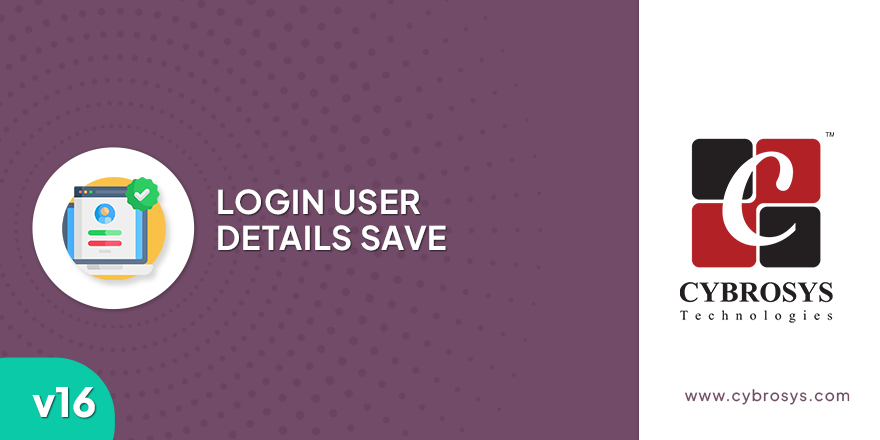
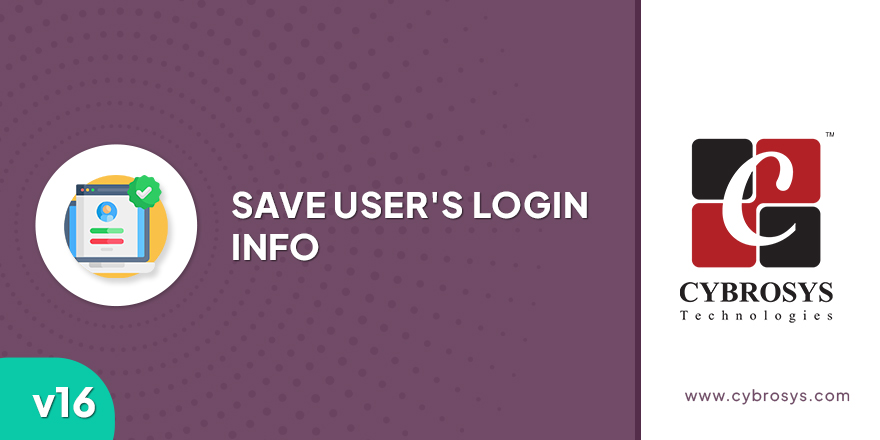
[FIX] Bug Fixed 'login_user_details_save'

Changed region(s): [[0.0307, 0.325, 0.675, 0.6795], [0.7057, 0.0, 0.7364, 1.0], [0.092, 0.6795, 0.1841, 0.7091]]

diff --git a/login_user_details_save/static/description/index.html b/login_user_details_save/static/description/index.html
@@ -1,19 +1,22 @@
 <div style="background-color: #714B67; min-height: 600px; width: 100%; padding: 15px; position: relative;">
     <!-- TITLE BAR -->
-    <div
-        style="border-bottom: 1px solid #875A7B; padding: 15px; display: flex; justify-content: space-between; align-items: center;">
-        <img src="assets/misc/cybrosys-logo.png" width="42" height="42" style="width: 42px; height: 42px;" />
+    <div class="d-flex align-items-center justify-content-between"
+         style="border-bottom: 1px solid #875A7B; padding: 15px; display: flex; justify-content: space-between; align-items: center;">
+        <img src="assets/misc/cybrosys-logo.png" width="42" height="42" style="width: 42px; height: 42px;"/>
         <div>
-            <div style="color: #7C7BAD; font-size: 14px; font-family: 'Montserrat', sans-serif; font-weight: bold; background-color: white; display: inline-block; padding: 3px 10px; border-radius: 50px;"
-                class="mr-2">
+            <div
+                    style="color: #7C7BAD; font-size: 14px; font-family: 'Montserrat', sans-serif; font-weight: bold; background-color: white; display: inline-block; padding: 3px 10px; border-radius: 50px;"
+                    class="mr-2">
                 <i class="fa fa-check mr-1"></i>Community
             </div>
-            <div style="color: #875A7B; font-size: 14px; font-family: 'Montserrat', sans-serif; font-weight: bold; background-color: white; display: inline-block; padding: 3px 10px; border-radius: 50px;"
-                class="mr-2">
+             <div
+                    style="color: #7C7BAD; font-size: 14px; font-family: 'Montserrat', sans-serif; font-weight: bold; background-color: white; display: inline-block; padding: 3px 10px; border-radius: 50px;"
+                    class="mr-2">
                 <i class="fa fa-check mr-1"></i>Enterprise
             </div>
-            <div style="color: #017E84; font-size: 14px; font-family: 'Montserrat', sans-serif; font-weight: bold; background-color: white; display: inline-block; padding: 3px 10px; border-radius: 50px;"
-                class="mr-2">
+            <div
+                    style="color: #017E84; font-size: 14px; font-family: 'Montserrat', sans-serif; font-weight: bold; background-color: white; display: inline-block; padding: 3px 10px; border-radius: 50px;"
+                    class="mr-2">
                 <i class="fa fa-check mr-1"></i>Odoo.sh
             </div>
         </div>
@@ -26,7 +29,7 @@
         displayed in login page, and we can click on it, and it automatically
         fills our username.</p>
     <!-- END OF APP HERO -->
-    <img src="assets/screenshots/hero.gif"
+    <img src="assets/screenshots/hero1.gif"
         style="width: 75%; height: auto; position: absolute; margin-left: auto; margin-right: auto; top: 45%; left: 12%; right: auto;" />
 
 </div>
@@ -34,8 +37,8 @@
 <!-- NAVIGATION SECTION -->
 <div class="d-flex align-items-center" style="border-bottom: 2px solid #714B67; padding: 15px 0px; margin-top: 300px;">
     <div class="d-flex justify-content-center align-items-center mr-2"
-        style="background-color: #F5F5F5; border-radius: 0px; width: 40px; height: 40px;">
-        <img src="assets/misc/compass.png" />
+         style="background-color: #F5F5F5; border-radius: 0px; width: 40px; height: 40px;">
+        <img src="assets/misc/compass.png"/>
     </div>
     <h2 class="mt-2" style="font-family: 'Montserrat', sans-serif; font-size: 24px; font-weight: bold;">Explore This
         Module</h2>
@@ -44,45 +47,42 @@
     <div class="col-sm-12 col-md-6 my-3">
         <a href="#overview">
             <div class="d-flex justify-content-between align-items-center"
-                style="background-color: #f5f5f5; padding: 30px; width: 100%;">
+                 style="background-color: #f5f5f5; padding: 30px; width: 100%;">
                 <div>
                     <span style="color: #714B67; font-size: 24px; font-weight: 500; display: block;">Overview</span>
-                    <span
-                        style="color: #714B67; font-size: 16px; font-weight: 400; color:#282F33;  display: block;">Learn
-                        more about this
-                        module</span>
+                    <span style="color: #714B67; font-size: 16px; font-weight: 400; color:#282F33;  display: block;">Learn
+            more about this
+            module</span>
                 </div>
-                <img src="assets/misc/right-arrow.png" width="36" height="36" />
+                <img src="assets/misc/right-arrow.png" width="36" height="36"/>
             </div>
         </a>
     </div>
     <div class="col-sm-12 col-md-6 my-3">
         <a href="#features">
             <div class="d-flex justify-content-between align-items-center"
-                style="background-color: #f5f5f5; padding: 30px; width: 100%;">
+                 style="background-color: #f5f5f5; padding: 30px; width: 100%;">
                 <div>
                     <span style="color: #714B67; font-size: 24px; font-weight: 500; display: block;">Features</span>
-                    <span
-                        style="color: #714B67; font-size: 16px; font-weight: 400; color:#282F33;  display: block;">View
-                        features of this
-                        module</span>
+                    <span style="color: #714B67; font-size: 16px; font-weight: 400; color:#282F33;  display: block;">View
+            features of this
+            module</span>
                 </div>
-                <img src="assets/misc/right-arrow.png" width="36" height="36" />
+                <img src="assets/misc/right-arrow.png" width="36" height="36"/>
             </div>
         </a>
     </div>
     <div class="col-sm-12 col-md-6 my-3">
         <a href="#screenshots">
             <div class="d-flex justify-content-between align-items-center"
-                style="background-color: #f5f5f5; padding: 30px; width: 100%;">
+                 style="background-color: #f5f5f5; padding: 30px; width: 100%;">
                 <div>
                     <span style="color: #714B67; font-size: 24px; font-weight: 500; display: block;">Screenshots</span>
-                    <span
-                        style="color: #714B67; font-size: 16px; font-weight: 400; color:#282F33;  display: block;">View
-                        screenshots for this
-                        module</span>
+                    <span style="color: #714B67; font-size: 16px; font-weight: 400; color:#282F33;  display: block;">View
+            screenshots for this
+            module</span>
                 </div>
-                <img src="assets/misc/right-arrow.png" width="36" height="36" />
+                <img src="assets/misc/right-arrow.png" width="36" height="36"/>
             </div>
         </a>
     </div>
@@ -92,23 +92,23 @@
 <!-- OVERVIEW SECTION -->
 <div class="d-flex align-items-center" style="border-bottom: 2px solid #714B67; padding: 15px 0px;" id="overview">
     <div class="d-flex justify-content-center align-items-center mr-2"
-        style="background-color: #F5F5F5; border-radius: 0px; width: 40px; height: 40px;">
-        <img src="assets/misc/pie-chart.png" />
+         style="background-color: #F5F5F5; border-radius: 0px; width: 40px; height: 40px;">
+        <img src="assets/misc/pie-chart.png"/>
     </div>
     <h2 class="mt-2" style="font-family: 'Montserrat', sans-serif; font-size: 24px; font-weight: bold;">Overview
     </h2>
 </div>
 <div class="row" style="font-family: 'Montserrat', sans-serif; font-weight: 400; font-size: 14px; line-height: 200%;">
-    <div class="col-sm-12 py-4">This app allows us to save our login info , our name will be
-        displayed in login page, we can click on it, and it automatically
-        fills our username</div>
+    <div class="col-sm-12 py-4">
+        This app allows you to create and manage courier requests for the courier management.
+    </div>
 </div>
 <!-- END OF OVERVIEW SECTION -->
 
 <!-- FEATURES SECTION -->
 <div class="d-flex align-items-center" style="border-bottom: 2px solid #714B67; padding: 15px 0px;" id="features">
     <div class="d-flex justify-content-center align-items-center mr-2"
-        style="background-color: #F5F5F5; border-radius: 0px; width: 40px; height: 40px;">
+         style="background-color: #F5F5F5; border-radius: 0px; width: 40px; height: 40px;">
         <img src="assets/misc/features.png"/>
     </div>
     <h2 class="mt-2" style="font-family: 'Montserrat', sans-serif; font-size: 24px; font-weight: bold;">Features
@@ -116,8 +116,8 @@
 </div>
 <div class="row" style="font-family: 'Montserrat', sans-serif; font-weight: 400; font-size: 14px; line-height: 200%;">
     <div class="col-sm-12 col-md-6">
-        <div class="d-flex align-items-start" style="margin-top: 40px; margin-bottom: 40px">
-            <img src="assets/misc/check-box.png" class="mr-2" />
+        <div class="d-flex align-items-center" style="margin-top: 30px; margin-bottom: 30px">
+            <img src="assets/misc/check-box.png" class="mr-2"/>
             <div>
                 <span
                     style="display: block; font-family: 'Montserrat', sans-serif; font-size: 18px; font-weight: bold;">Prevents accidental logout</span>
@@ -125,8 +125,8 @@
             </div>
         </div>
 
-        <div class="d-flex align-items-start" style="margin-top: 30px; margin-bottom: 30px">
-            <img src="assets/misc/check-box.png" class="mr-2" />
+        <div class="d-flex align-items-center" style="margin-top: 30px; margin-bottom: 30px">
+            <img src="assets/misc/check-box.png" class="mr-2"/>
             <div>
                 <span
                     style="display: block; font-family: 'Montserrat', sans-serif; font-size: 18px; font-weight: bold;">We can save our login details</span>
@@ -136,8 +136,8 @@
 
     </div>
     <div class="col-sm-12 col-md-6">
-        <div class="d-flex align-items-start" style="margin-top: 30px; margin-bottom: 30px">
-            <img src="assets/misc/check-box.png" class="mr-2" />
+       <div class="d-flex align-items-center" style="margin-top: 30px; margin-bottom: 30px">
+            <img src="assets/misc/check-box.png" class="mr-2"/>
             <div>
                 <span
                     style="display: block; font-family: 'Montserrat', sans-serif; font-size: 18px; font-weight: bold;">We can remove this saved  login details</span>
@@ -151,8 +151,8 @@
 <!-- SCREENSHOTS SECTION -->
 <div class="d-flex align-items-center" style="border-bottom: 2px solid #714B67; padding: 15px 0px;" id="screenshots">
     <div class="d-flex justify-content-center align-items-center mr-2"
-        style="background-color: #F5F5F5; border-radius: 0px; width: 40px; height: 40px;">
-        <img src="assets/misc/pictures.png" />
+         style="background-color: #F5F5F5; border-radius: 0px; width: 40px; height: 40px;">
+        <img src="assets/misc/pictures.png"/>
     </div>
     <h2 class="mt-2" style="font-family: 'Montserrat', sans-serif; font-size: 24px; font-weight: bold;">Screenshots
     </h2>
@@ -163,34 +163,19 @@
         <div style="display: block; margin: 30px auto;">
             <h3 style="font-family: 'Montserrat', sans-serif; font-size: 18px; font-weight: bold;">Prevents accidental logout</h3>
             <p style="font-weight: 400; font-family: 'Montserrat', sans-serif; font-size: 14px;">In this app the logout button doesn't log you out instantly, instead it asks for logout confirmation</p>
-            <img src="assets/screenshots/screenshot7.png" class="img-thumbnail">
+            <img src="assets/screenshots/login1.png" class="img-thumbnail">
         </div>
-        <div style="display: block; margin: 30px auto;">
-            <h3 style="font-family: 'Montserrat', sans-serif; font-size: 18px; font-weight: bold;"></h3>
-            <p style="font-weight: 400; font-family: 'Montserrat', sans-serif; font-size: 14px;"></p>
-            <img src="assets/screenshots/screenshot8.png" class="img-thumbnail">
-        </div>
-
         <div style="display: block; margin: 30px auto;">
             <h3 style="font-family: 'Montserrat', sans-serif; font-size: 18px; font-weight: bold;">We can save our login details</h3>
             <p style="font-weight: 400; font-family: 'Montserrat', sans-serif; font-size: 14px;">With the help of this app we can save our login details using the prompt that appears when we click logout, we can enable the 'save login details' checkbox to save our details and we can click save & logout to logout</p>
-            <img src="assets/screenshots/screenshot8.png" class="img-thumbnail">
+            <img src="assets/screenshots/login2.png" class="img-thumbnail">
+            <img src="assets/screenshots/login3.png" class="img-thumbnail">
         </div>
-        <div style="display: block; margin: 30px auto;">
-            <h3 style="font-family: 'Montserrat', sans-serif; font-size: 18px; font-weight: bold;"></h3>
-            <p style="font-weight: 400; font-family: 'Montserrat', sans-serif; font-size: 14px;"></p>
-            <img src="assets/screenshots/screenshot1.png" class="img-thumbnail">
-        </div>
-
         <div style="display: block; margin: 30px auto;">
             <h3 style="font-family: 'Montserrat', sans-serif; font-size: 18px; font-weight: bold;">We can also delete our saved login details</h3>
             <p style="font-weight: 400; font-family: 'Montserrat', sans-serif; font-size: 14px;">We can delete our saved login details by unchecking the 'save login details' checkbox.</p>
-            <img src="assets/screenshots/screenshot9.png" class="img-thumbnail">
-        </div>
-        <div style="display: block; margin: 30px auto;">
-            <h3 style="font-family: 'Montserrat', sans-serif; font-size: 18px; font-weight: bold;"></h3>
-            <p style="font-weight: 400; font-family: 'Montserrat', sans-serif; font-size: 14px;"></p>
-            <img src="assets/screenshots/screenshot10.png" class="img-thumbnail">
+            <img src="assets/screenshots/login4.png" class="img-thumbnail">
+            <img src="assets/screenshots/login5.png" class="img-thumbnail">
         </div>
 
     </div>
@@ -272,7 +257,7 @@
 <div class="d-flex align-items-center" style="border-bottom: 2px solid #714B67; padding: 15px 0px;">
     <div class="d-flex justify-content-center align-items-center mr-2"
         style="background-color: #F5F5F5; border-radius: 0px; width: 40px; height: 40px;">
-        <img src="assets/misc/star.png" />
+        <img src="/assets/misc/star.png" />
     </div>
     <h2 class="mt-2" style="font-family: 'Montserrat', sans-serif; font-size: 24px; font-weight: bold;">Our Services
     </h2>
@@ -383,7 +368,7 @@
 <div class="d-flex align-items-center" style="border-bottom: 2px solid #714B67; padding: 15px 0px;">
     <div class="d-flex justify-content-center align-items-center mr-2"
         style="background-color: #F5F5F5; border-radius: 0px; width: 40px; height: 40px;">
-        <img src="assets/misc/corporate.png" />
+        <img src="/assets/misc/corporate.png" />
     </div>
     <h2 class="mt-2" style="font-family: 'Montserrat', sans-serif; font-size: 24px; font-weight: bold;">Our
         Industries
@@ -509,7 +494,7 @@
 <div class="d-flex align-items-center" style="border-bottom: 2px solid #714B67; padding: 15px 0px;">
     <div class="d-flex justify-content-center align-items-center mr-2"
         style="background-color: #F5F5F5; border-radius: 0px; width: 40px; height: 40px;">
-        <img src="assets/misc/customer-support.png" />
+        <img src="/assets/misc/customer-support.png" />
     </div>
     <h2 class="mt-2" style="font-family: 'Montserrat', sans-serif; font-size: 24px; font-weight: bold;">Support
     </h2>
@@ -520,7 +505,7 @@
             <div style="background-color: #F6F8F9; padding: 30px; display: flex; align-items: center;">
                 <div class="mr-4"
                     style="background-color: #714B67; display: inline-block; height: 70px; width: 70px; display: flex; align-items: center; justify-content: center;">
-                    <img src="assets/misc/support.png" height="48" width="48" style="width: 42px; height: 42px;" />
+                    <img src="/assets/misc/support.png" height="48" width="48" style="width: 42px; height: 42px;" />
                 </div>
                 <div>
                     <h4>Need Help?</h4>
@@ -536,7 +521,7 @@
             <div style="background-color: #F6F8F9; padding: 30px; display: flex; align-items: center;">
                 <div class="mr-4"
                     style="background-color: #2AC44D; display: inline-block; height: 70px; width: 70px; display: flex; align-items: center; justify-content: center;">
-                    <img src="assets/misc/whatsapp.png" height="52" width="52" style="width: 52px; height: 52px;" />
+                    <img src="/assets/misc/whatsapp.png" height="52" width="52" style="width: 52px; height: 52px;" />
                 </div>
                 <div>
                     <h4>WhatsApp</h4>
@@ -551,7 +536,7 @@
     </div>
     <div class="row">
         <div class="col-sm-12 my-5 d-flex justify-content-center align-items-center">
-            <img src="assets/misc/logo.png" width="144" height="31"
+            <img src="/assets/misc/logo.png" width="144" height="31"
                 style="width:144px; height: 31px; margin-top: 40px;" />
         </div>
     </div>

diff --git a/login_user_details_save/__manifest__.py b/login_user_details_save/__manifest__.py
@@ -19,18 +19,17 @@
 #    If not, see <http://www.gnu.org/licenses/>.
 #
 #############################################################################
-
 {
-    'name': "Save User's Login info",
+    'name': "Save User's Login Info",
     'category': 'Extra Tools',
     'version': '16.0.1.0.0',
+    'summary': """
+            Allows us to save our login info  for easier access next time
+        """,
     'description': """
         This app allows us to save our login info , our name will be 
         displayed in login page and we can click on it and it automatically 
         fills our username
-    """,
-    'summary': """
-        Allows us to save our login info  for easier access next time
     """,
     'author': "Cybrosys Techno Solutions",
     'company': 'Cybrosys Techno Solutions',
@@ -39,8 +38,8 @@
     'depends': ['base', 'website', 'web'],
     'data': [
         'security/ir.model.access.csv',
-        'views/logout_popup_view.xml',
-        'views/templates.xml',
+        'views/logout_popup_views.xml',
+        'views/web_templates.xml',
     ],
     'assets': {
         'web.assets_backend': [
@@ -50,6 +49,6 @@
     'images': ['static/description/banner.png'],
     'license': 'LGPL-3',
     'installable': True,
-    'application': True,
+    'application': False,
     'auto_install': False,
 }

diff --git a/login_user_details_save/controllers/__init__.py b/login_user_details_save/controllers/__init__.py
@@ -19,4 +19,4 @@
 #    If not, see <http://www.gnu.org/licenses/>.
 #
 #############################################################################
-from . import main
+from . import login_user_details_save

diff --git a/login_user_details_save/README.rst b/login_user_details_save/README.rst
@@ -2,9 +2,9 @@
     :target: http://www.gnu.org/licenses/Lgpl-3.0-standalone.html
     :alt: License: LGPL-3
 
-Save User's Login info
+Save User's Login Info
 =======================
-This module allows us to Save User's Login info For Odoo 16.
+This module allows us to Save User's Login Info For Odoo 16.
 
 Company
 -------
@@ -13,12 +13,11 @@ Company
 License
 -------
 General Public License, Version 3 (LGPL v3).
-(https://www.odoo.com/documentation/user/16.0/legal/licenses/licenses.html)
+(http://www.gnu.org/licenses/Lgpl-3.0-standalone.html)
 
 Credits
 -------
-Developers: Version 16 - Swaroop N P @cybrosys
-
+Developers:(V16) Swaroop N P, Contact: odoo@cybrosys.com
 
 Contacts
 --------

diff --git a/login_user_details_save/doc/RELEASE_NOTES.md b/login_user_details_save/doc/RELEASE_NOTES.md
@@ -1,7 +1,6 @@
 ## Module <login_user_details_save>
 
-#### 29.07.2023
+#### 02.08.2023
 #### Version 16.0.1.0.0
 #### ADD
-Initial Commit for Save User's Login info
-
+Initial Commit for Save User's Login Info
